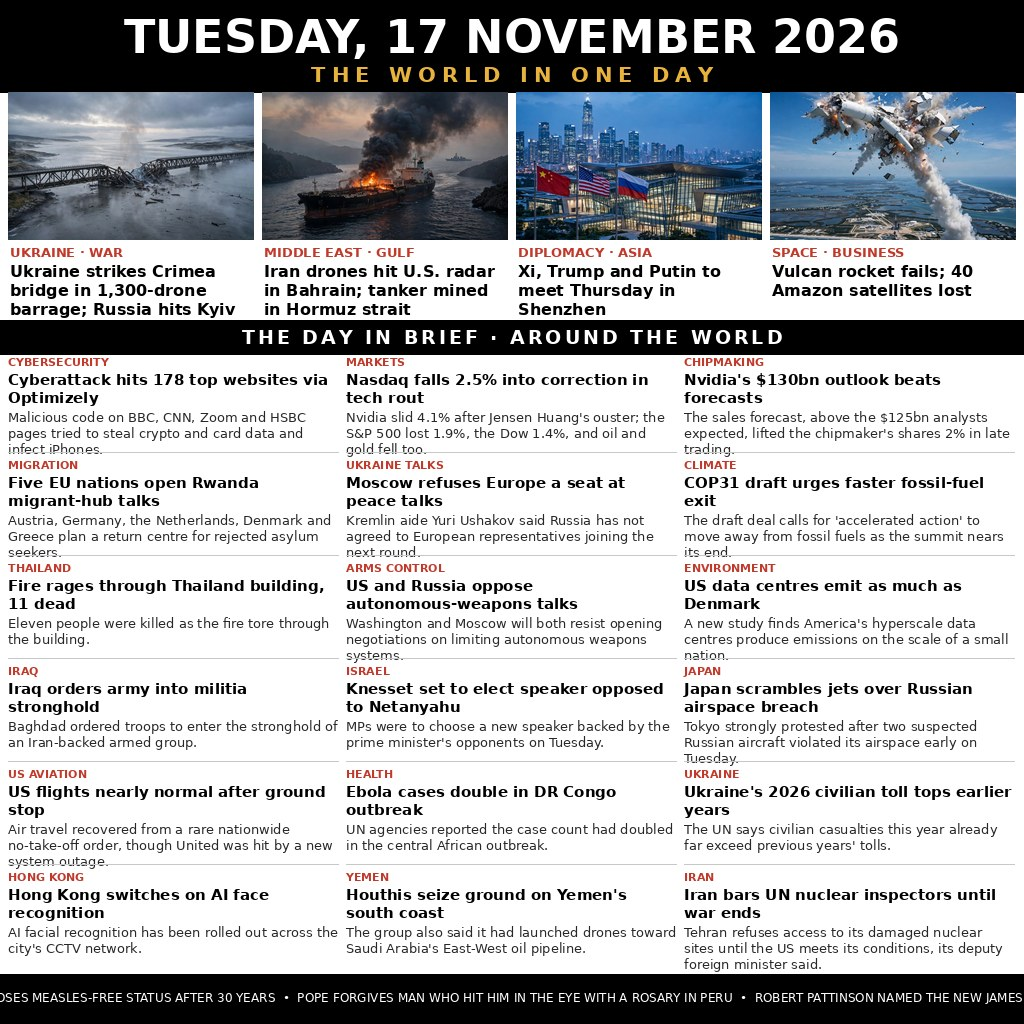
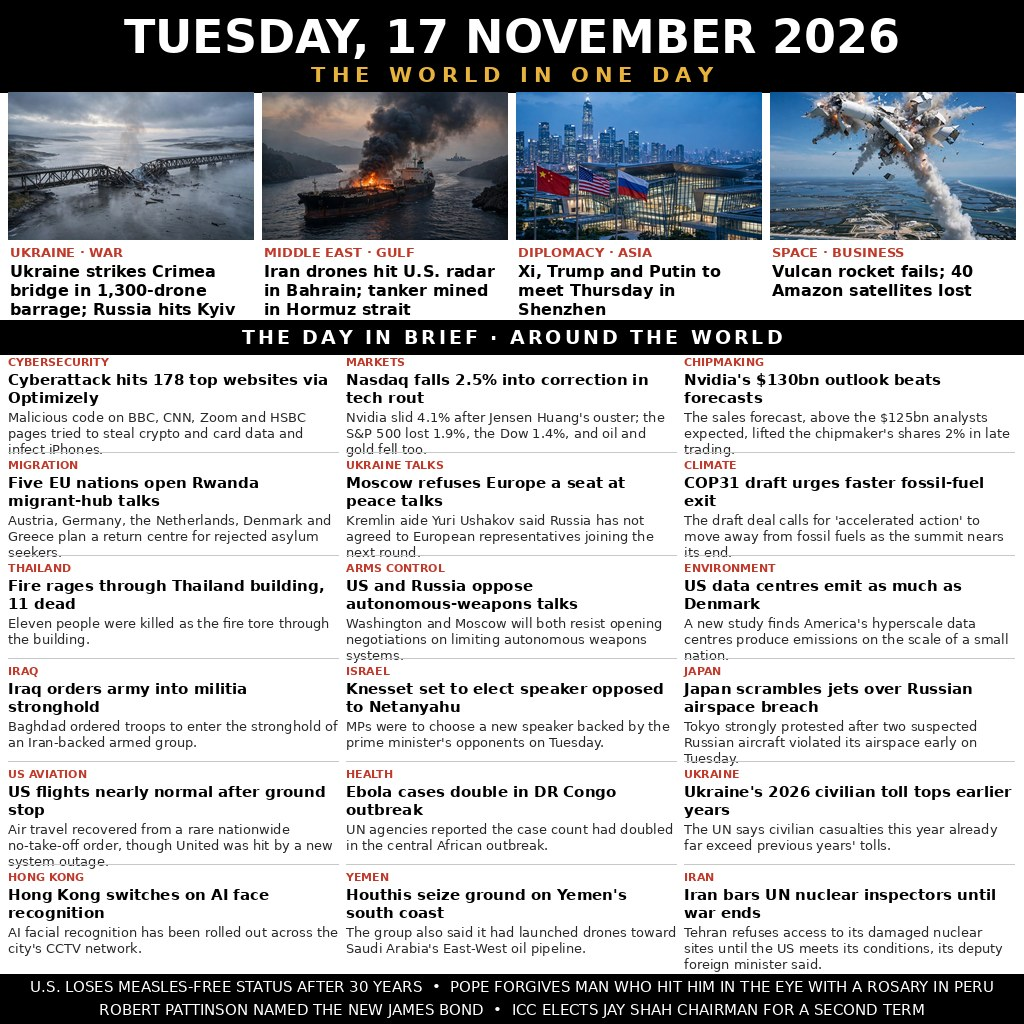
Fix footer ticker: two fitted lines (was clipped), add ICC/Jay Shah item, assert fit

Changed region(s): [[0.0, 0.9375, 1.0, 1.0]]

diff --git a/compose.py b/compose.py
@@ -132,9 +132,12 @@ BRIEFS = [
      "Tehran refuses access to its damaged nuclear sites until the US meets its conditions, its deputy foreign minister said."),
 ]
 
-TICKER = ("U.S. LOSES MEASLES-FREE STATUS AFTER 30 YEARS  \u2022  "
-          "POPE FORGIVES MAN WHO HIT HIM IN THE EYE WITH A ROSARY IN PERU  \u2022  "
-          "ROBERT PATTINSON NAMED THE NEW JAMES BOND")
+TICKER_LINES = [
+    "U.S. LOSES MEASLES-FREE STATUS AFTER 30 YEARS  \u2022  "
+    "POPE FORGIVES MAN WHO HIT HIM IN THE EYE WITH A ROSARY IN PERU",
+    "ROBERT PATTINSON NAMED THE NEW JAMES BOND  \u2022  "
+    "ICC ELECTS JAY SHAH CHAIRMAN FOR A SECOND TERM",
+]
 
 
 def font(path, size):
@@ -263,10 +266,16 @@ def draw_briefs(draw):
 def draw_footer(draw):
     fy = H - FOOTER_H
     draw.rectangle([0, fy, W, H], fill=BLACK)
-    ticker_font = fit_font(draw, TICKER, REGULAR, 17, W - 24, min_size=12)
-    bbox = draw.textbbox((0, 0), TICKER, font=ticker_font)
-    th = bbox[3] - bbox[1]
-    draw_centred(draw, fy + (FOOTER_H - th) / 2 - bbox[1], TICKER, ticker_font, WHITE)
+    # Two centred ticker lines; each is fitted and asserted so a line can
+    # never silently run off the canvas again (V2's first cut clipped one).
+    line_h = FOOTER_H // 2
+    for i, line in enumerate(TICKER_LINES):
+        fnt = fit_font(draw, line, REGULAR, 15, W - 24, min_size=11)
+        assert draw.textlength(line, font=fnt) <= W - 24, line
+        bbox = draw.textbbox((0, 0), line, font=fnt)
+        th = bbox[3] - bbox[1]
+        draw_centred(draw, fy + i * line_h + (line_h - th) / 2 - bbox[1],
+                     line, fnt, WHITE)
 
 
 def compose():

diff --git a/README.md b/README.md
@@ -5,13 +5,13 @@ An entry for the make.fun bounty
 1024×1024 image summing up the world news of Tuesday, 17 November 2026.
 
 V1 of this entry carried six stories and ranked mid-field; the leaders
-carry dozens. V2 is a dense broadsheet front page with **25 stories**: the
+carry dozens. V2 is a dense broadsheet front page with **26 stories**: the
 same four illustrated leads (Crimea bridge barrage, Iran–Bahrain/Hormuz,
 the Xi–Trump–Putin Shenzhen summit, the failed Vulcan launch), 18 text
 briefs spanning markets, migration, climate, health, technology and four
-continents, and a three-item ticker (the U.S. losing measles-free status,
-the Pope's rosary forgiveness in Peru, and Robert Pattinson named as the
-new James Bond).
+continents, and a four-item ticker (the U.S. losing measles-free status,
+the Pope's rosary forgiveness in Peru, Robert Pattinson named as the new
+James Bond, and Jay Shah re-elected ICC chairman).
 
 ## How it works
 
